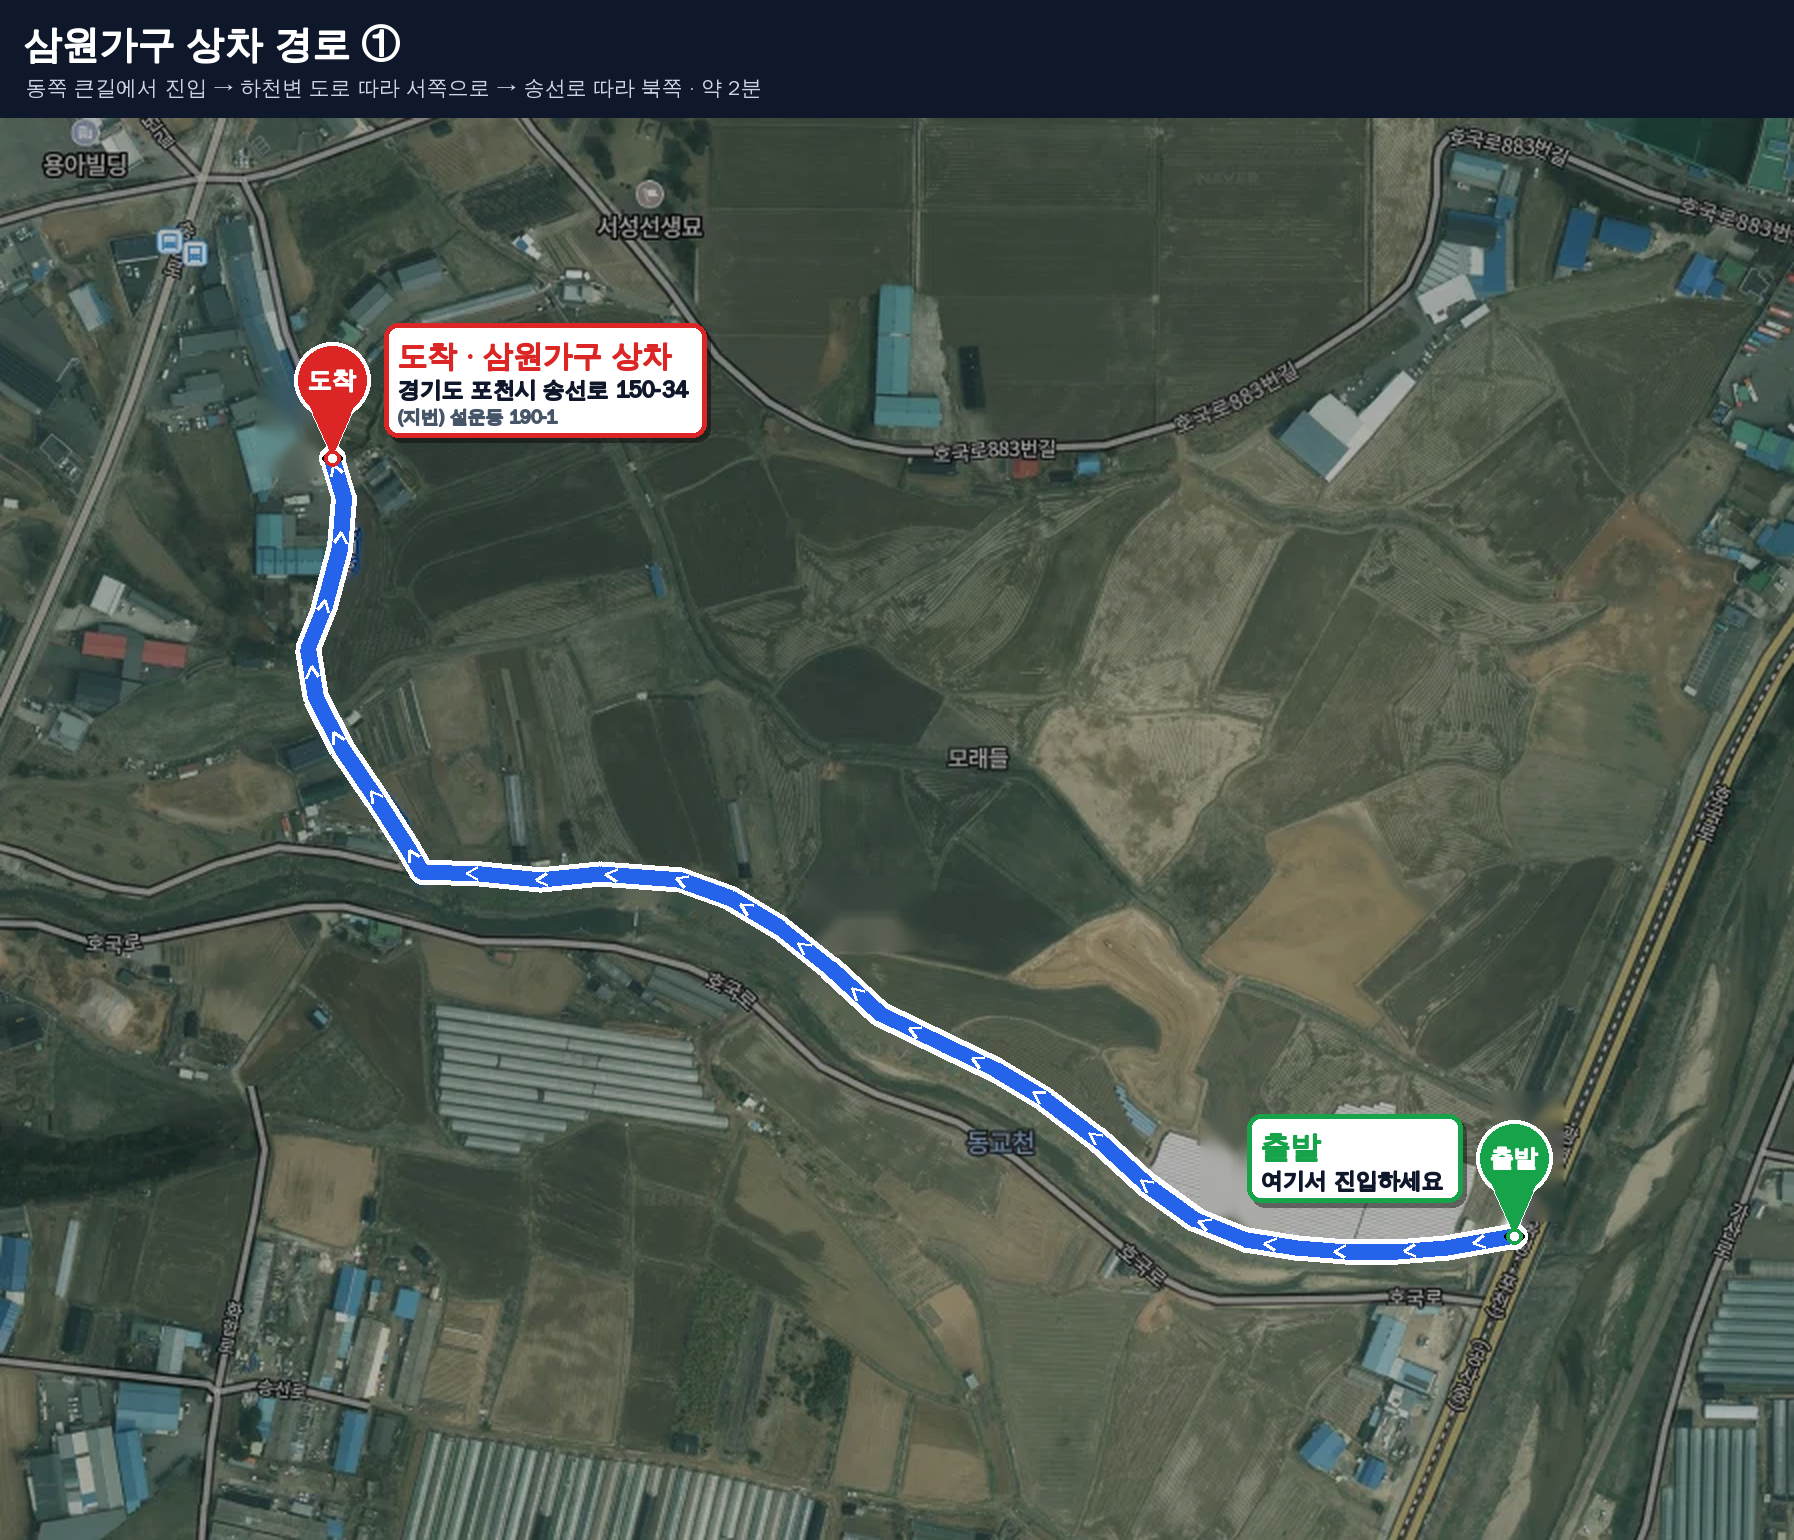
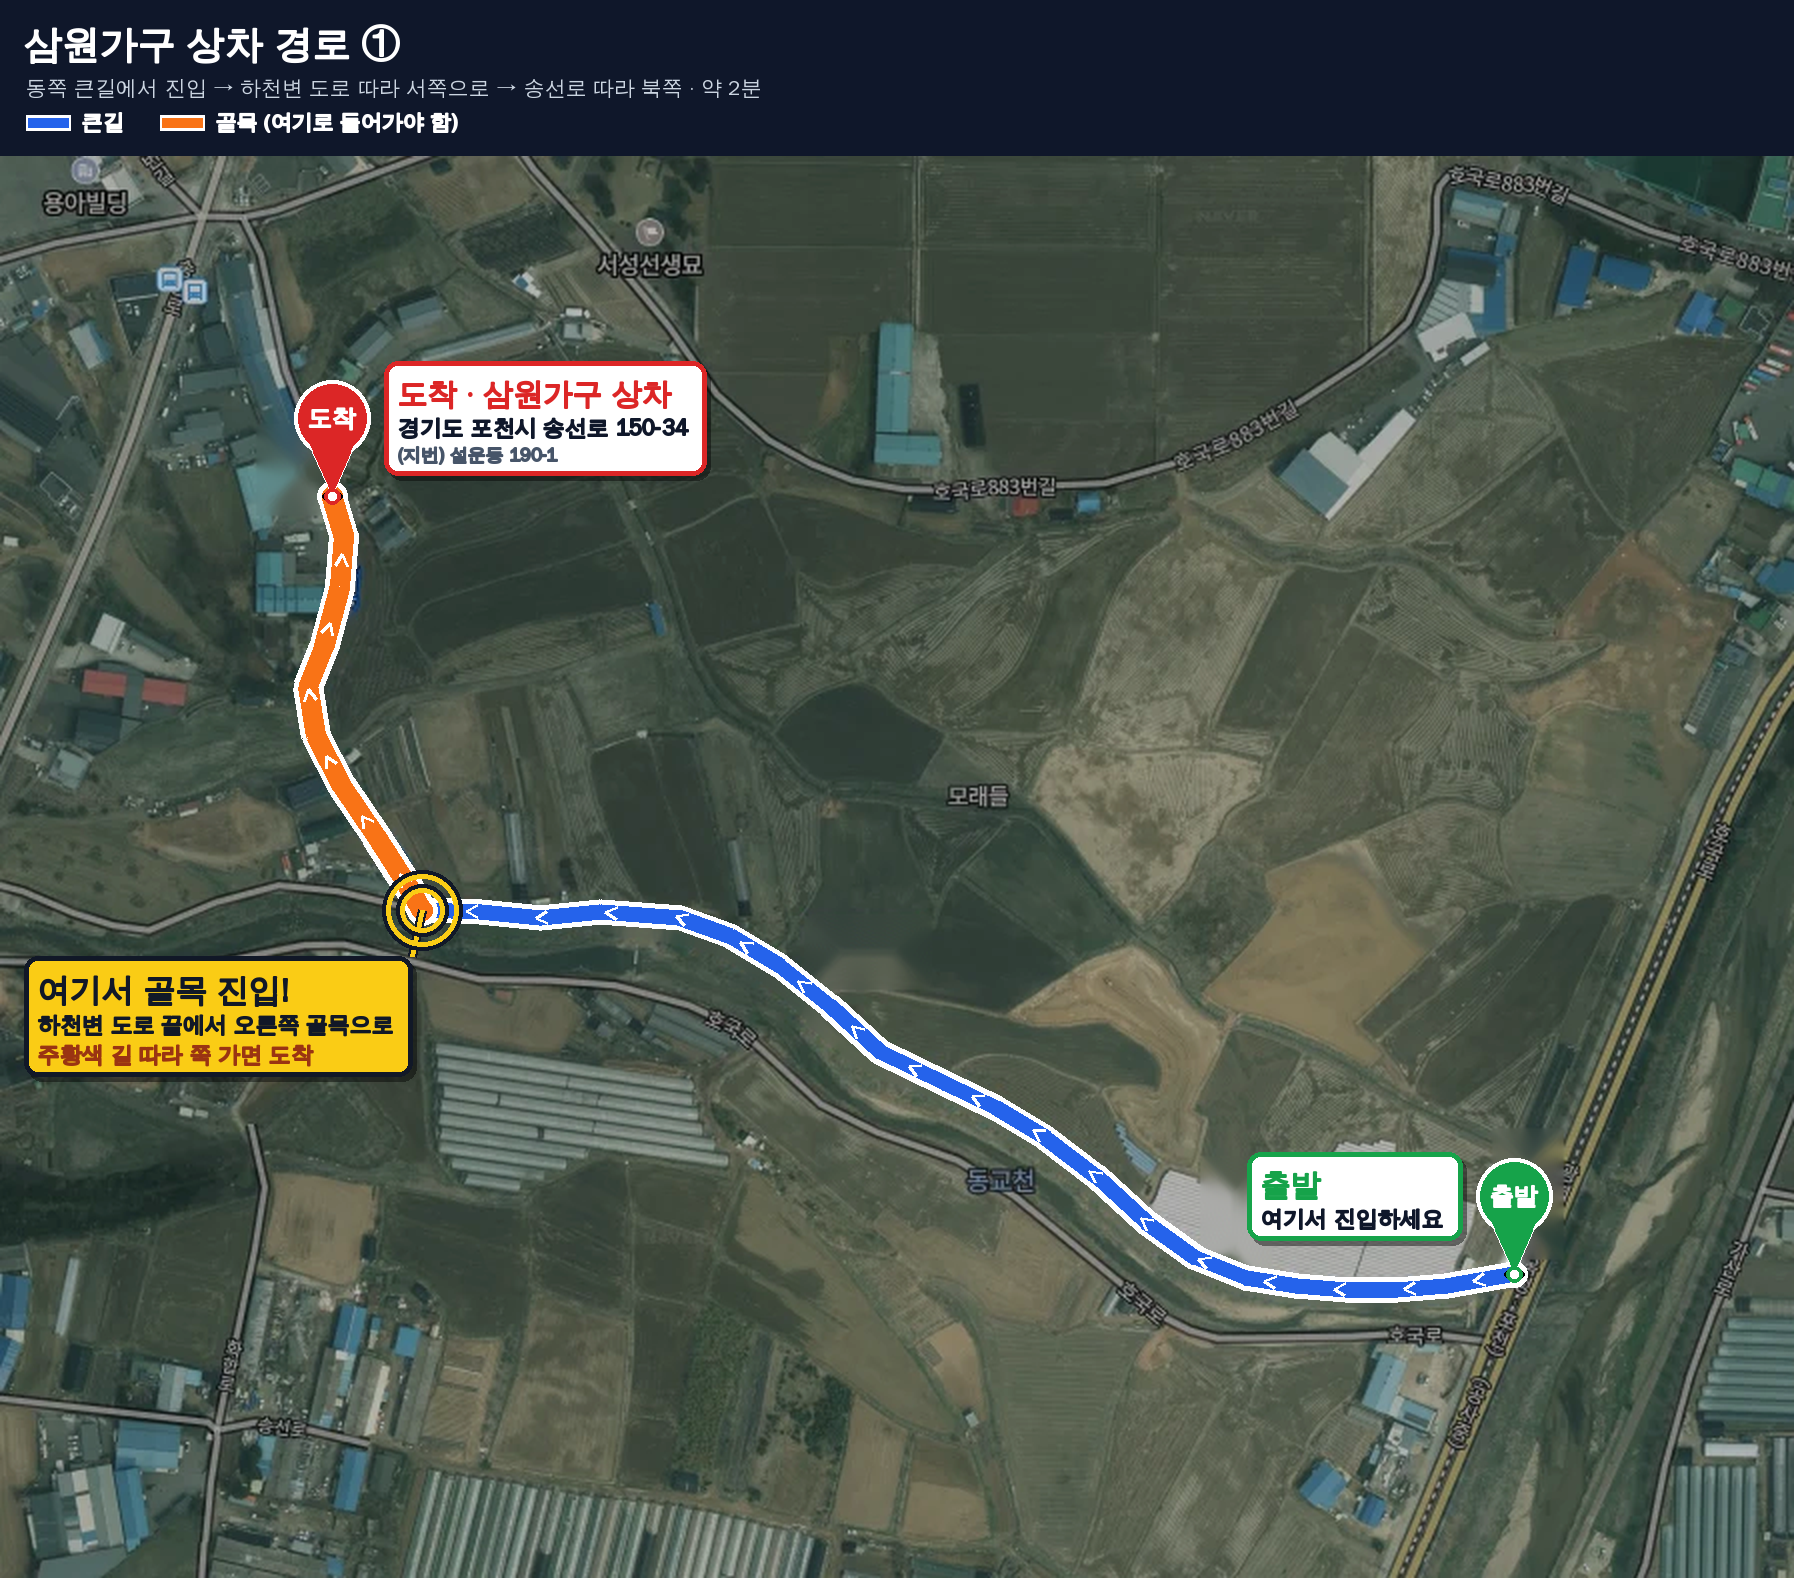
골목 진입 지점 강조: 골목 구간 주황색, 진입 지점 안내 박스, 범례 추가
Claude-Session: https://claude.ai/code/session_01Dz7PcBDYJJtodKWJVErJmj

diff --git a/make_maps.py b/make_maps.py
@@ -20,6 +20,8 @@ RED = (220, 38, 38)
 NAVY = (15, 23, 42)
 WHITE = (255, 255, 255)
 ROUTE = (37, 99, 235)
+ALLEY = (249, 115, 22)
+YELLOW = (250, 204, 21)
 
 ROUTES = [
     {
@@ -39,6 +41,10 @@ ROUTES = [
                  (158, 290), (154, 265), (162, 245), (170, 215), (172, 190), (166, 170)],
         "start_label_side": "left",
         "end_label_side": "right",
+        # 골목으로 꺾는 지점 (path 인덱스)과 안내 박스 위치(확대 좌표 기준 좌상단)
+        "turn": 20,
+        "turn_box": (24, 800),
+        "turn_text": "하천변 도로 끝에서 오른쪽 골목으로",
     },
     {
         "src": "images/route2.webp",
@@ -53,6 +59,9 @@ ROUTES = [
                  (400, 150), (396, 142)],
         "start_label_side": "right",
         "end_label_side": "left",
+        "turn": 9,
+        "turn_box": (None, 750),
+        "turn_text": "하천변 도로 끝에서 왼쪽 골목으로 크게 꺾기",
     },
 ]
 
@@ -95,10 +104,7 @@ def draw_pin(draw, tip, color, label):
 
 def draw_callout(draw, tip, side, color, lines, img_w, img_h):
     """핀 옆에 설명 박스를 그린다. lines: [(text, size, color)]"""
-    pad = 14
-    widths = [draw.textlength(t, font=font(s)) + s // 11 * 2 for t, s, _ in lines]
-    heights = [s + 8 for _, s, _ in lines]
-    bw, bh = max(widths) + pad * 2, sum(heights) + pad * 2 - 8
+    bw, bh = box_size(draw, lines)
     x, y = tip
     cy = y - 78
     if side == "right":
@@ -108,22 +114,36 @@ def draw_callout(draw, tip, side, color, lines, img_w, img_h):
     y0 = cy - bh / 2
     x0 = min(max(x0, 12), img_w - bw - 12)
     y0 = min(max(y0, 12), img_h - bh - 12)
+    draw_box(draw, (x0, y0), color, lines)
+
+
+def box_size(draw, lines, pad=14):
+    widths = [draw.textlength(t, font=font(s)) + s // 11 * 2 for t, s, _ in lines]
+    heights = [s + 8 for _, s, _ in lines]
+    return max(widths) + pad * 2, sum(heights) + pad * 2 - 8
+
+
+def draw_box(draw, xy, color, lines, fill=WHITE, pad=14):
+    x0, y0 = xy
+    bw, bh = box_size(draw, lines, pad)
     draw.rounded_rectangle((x0 + 4, y0 + 5, x0 + bw + 4, y0 + bh + 5), 14, fill=(0, 0, 0, 110))
-    draw.rounded_rectangle((x0, y0, x0 + bw, y0 + bh), 14, fill=WHITE, outline=color, width=5)
+    draw.rounded_rectangle((x0, y0, x0 + bw, y0 + bh), 14, fill=fill, outline=color, width=5)
     ty = y0 + pad
-    for (t, s, c), h in zip(lines, heights):
+    for t, s, c in lines:
         text_bold(draw, (x0 + pad, ty), t, s, c)
-        ty += h
+        ty += s + 8
+    return bw, bh
 
 
-def draw_route(draw, pts):
-    """흰 테두리가 있는 파란 경로선과 진행 방향 화살표를 그린다."""
-    draw.line(pts, fill=WHITE, width=26, joint="curve")
+def draw_route(draw, pts, color=ROUTE, width=16):
+    """흰 테두리가 있는 경로선과 진행 방향 화살표를 그린다."""
+    o = width + 10
+    draw.line(pts, fill=WHITE, width=o, joint="curve")
     for p in (pts[0], pts[-1]):
-        draw.ellipse((p[0] - 13, p[1] - 13, p[0] + 13, p[1] + 13), fill=WHITE)
-    draw.line(pts, fill=ROUTE, width=16, joint="curve")
+        draw.ellipse((p[0] - o / 2, p[1] - o / 2, p[0] + o / 2, p[1] + o / 2), fill=WHITE)
+    draw.line(pts, fill=color, width=width, joint="curve")
     for p in (pts[0], pts[-1]):
-        draw.ellipse((p[0] - 8, p[1] - 8, p[0] + 8, p[1] + 8), fill=ROUTE)
+        draw.ellipse((p[0] - width / 2, p[1] - width / 2, p[0] + width / 2, p[1] + width / 2), fill=color)
     # 일정 간격마다 진행 방향 화살표
     gap, acc = 70, 35.0
     for (x0, y0), (x1, y1) in zip(pts, pts[1:]):
@@ -168,8 +188,25 @@ def build(cfg):
     d = ImageDraw.Draw(layer)
 
     pts = [(x * SCALE, y * SCALE) for x, y in cfg["path"]]
-    draw_route(d, pts)
-    s, e = pts[0], pts[-1]
+    ti = cfg["turn"]
+    draw_route(d, pts[:ti + 1])
+    draw_route(d, pts[ti:], ALLEY, 20)   # 골목 구간은 주황색으로 굵게
+    s, e, t = pts[0], pts[-1], pts[ti]
+
+    # 골목 진입 지점: 노란 동그라미 + 안내 박스 + 연결선
+    lines = [("여기서 골목 진입!", 32, (17, 24, 39)),
+             (cfg["turn_text"], 22, (17, 24, 39)),
+             ("주황색 길 따라 쭉 가면 도착", 22, (154, 52, 18))]
+    bw, bh = box_size(d, lines)
+    bx, by = cfg["turn_box"]
+    if bx is None:
+        bx = W - bw - 16
+    near = (min(max(t[0], bx), bx + bw), min(max(t[1], by), by + bh))
+    d.line([t, near], fill=(17, 24, 39), width=9)
+    d.line([t, near], fill=YELLOW, width=5)
+    for r, c in ((40, (17, 24, 39)), (36, YELLOW), (26, (17, 24, 39)), (22, YELLOW)):
+        d.ellipse((t[0] - r, t[1] - r, t[0] + r, t[1] + r), outline=c, width=5)
+    draw_box(d, (bx, by), (17, 24, 39), lines, fill=YELLOW)
     draw_callout(d, s, cfg["start_label_side"], GREEN,
                  [("출발", 30, GREEN), ("여기서 진입하세요", 22, NAVY)], W, H)
     draw_callout(d, e, cfg["end_label_side"], RED,
@@ -179,12 +216,18 @@ def build(cfg):
     img = Image.alpha_composite(img, layer)
 
     # 4) 상단 제목 띠
-    head_h = 118
+    head_h = 156
     canvas = Image.new("RGBA", (W, H + head_h), NAVY + (255,))
     canvas.paste(img, (0, head_h))
     d = ImageDraw.Draw(canvas)
     text_bold(d, (24, 20), cfg["title"], 38, WHITE)
     d.text((26, 74), cfg["sub"], font=font(21), fill=(203, 213, 225))
+    lx, ly = 26, 122
+    for color, label in ((ROUTE, "큰길"), (ALLEY, "골목 (여기로 들어가야 함)")):
+        d.line([(lx, ly), (lx + 44, ly)], fill=WHITE, width=16)
+        d.line([(lx + 2, ly), (lx + 42, ly)], fill=color, width=10)
+        text_bold(d, (lx + 56, ly), label, 21, WHITE, anchor="lm")
+        lx += 56 + d.textlength(label, font=font(21)) + 36
     canvas.convert("RGB").save(cfg["out"], optimize=True)
     print("saved", cfg["out"], canvas.size)
 
